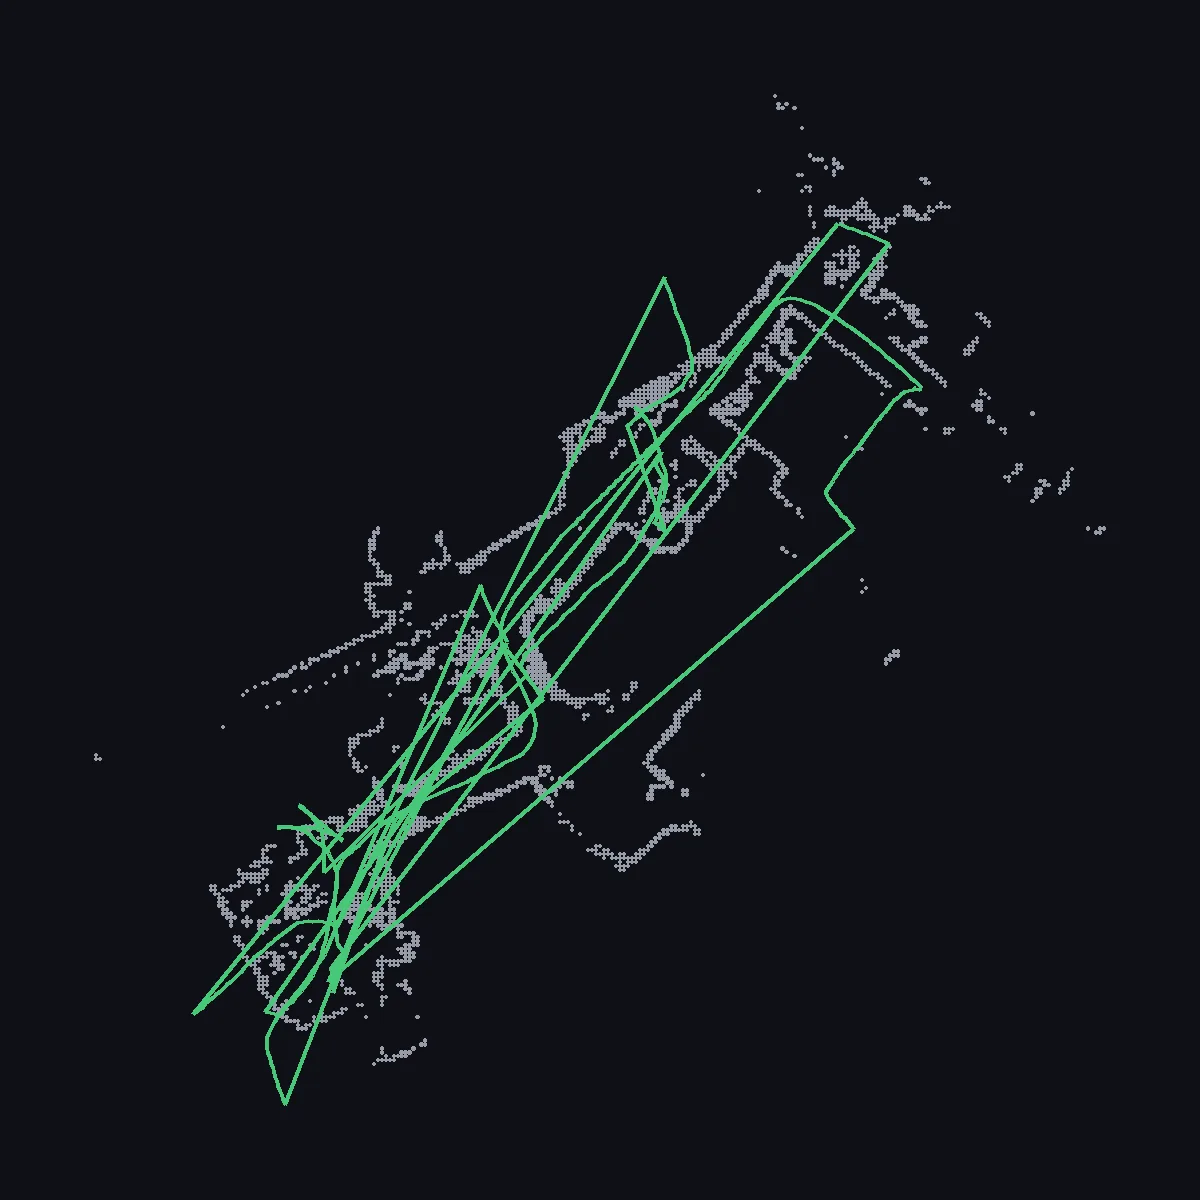
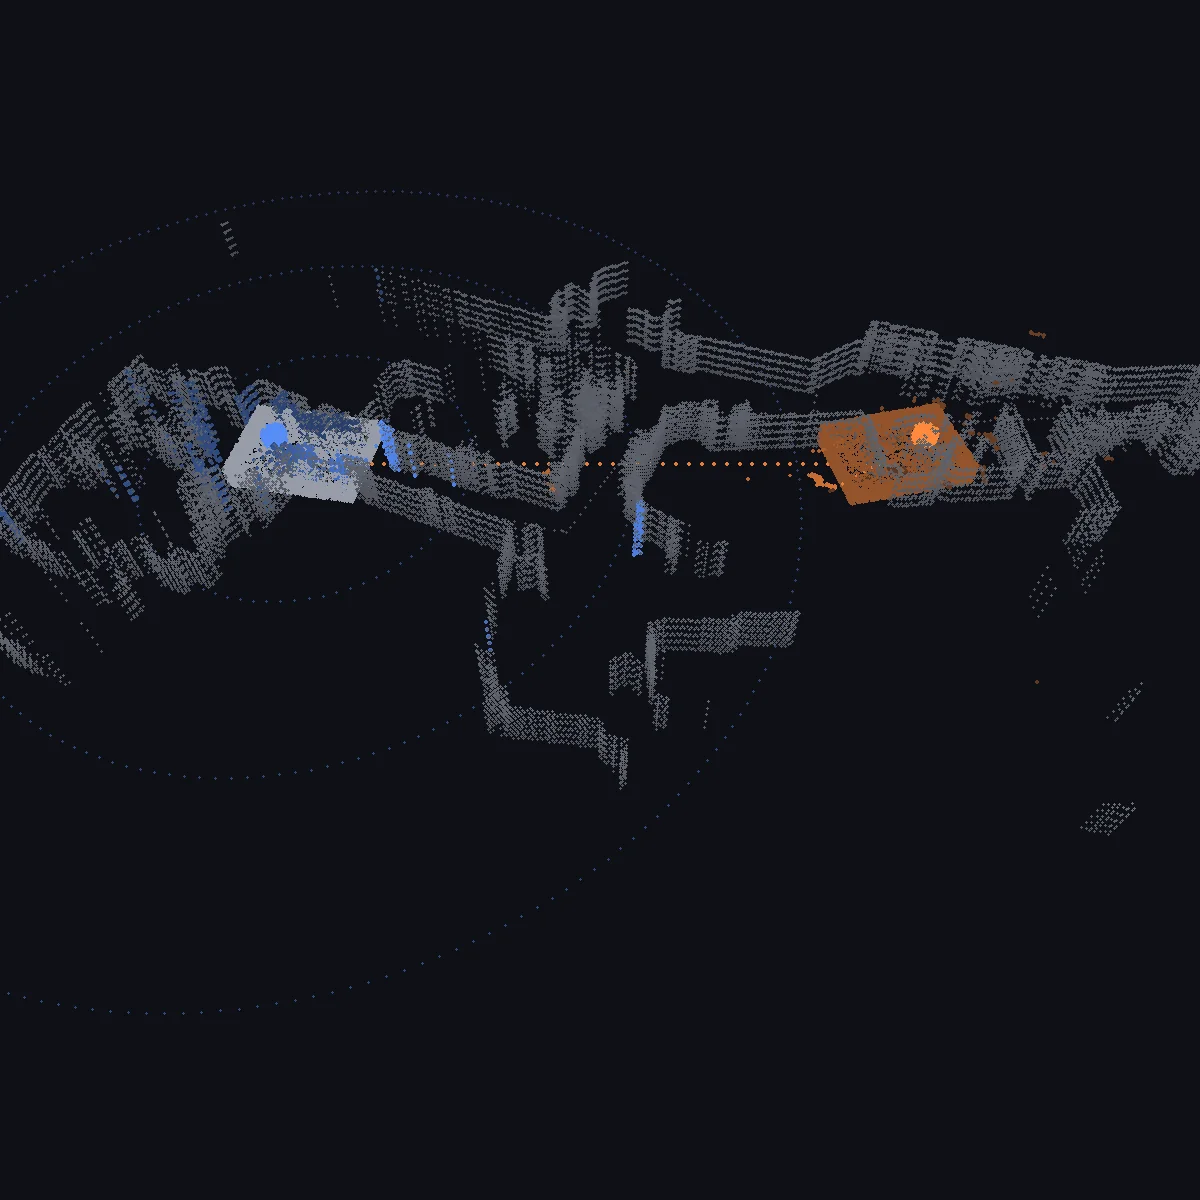
Decipher tile and robot-log card: AMR and its ghost on the real Stata map, simulated lidar, loop

diff --git a/scripts/make-stata-plate.py b/scripts/make-stata-plate.py
@@ -1,54 +1,284 @@
 #!/usr/bin/env python3
-"""Square card thumbnail for the ROS 2 triage project, drawn from the data
-kept as generator input, not shipped: scripts/assets/stata/stata-walls.bin (int8 x, y per point) and
-scripts/assets/stata/stata-replay.json (AMCL poses, int16, same frame). Walls in grey,
-the estimated path in green, nothing else. Host tooling (Pillow), run by hand
-like the resume; the output is committed.
+"""Card plate and loop for the ROS 2 log-triage project (also the hero's Decipher
+tile): a logistics robot in a building, the point of the log tool in one picture.
+Dots in the house look (oblique, grey fading with depth, returns lit in blue, a
+sweeping beam), like scripts/make-roboat-plate.py. Host tooling (numpy, Pillow),
+run by hand; outputs committed.
 
-    python3 scripts/make-stata-plate.py
+REAL: the building map, where the robot really was, and where it said it was.
+  Dataset  MIT Stata Center dataset, a PR2 robot, CC BY 3.0 (Fallon et al.)
+  Run      the demo's results/stata of github.com/thrmnn/ros2-localization-triage:
+           walls.csv (laser endpoints from ground-truth-aligned scans),
+           amcl_poses.csv (the poses AMCL reported), gt_part3_floor2.csv (the
+           dataset's AprilTag ground truth, independent of AMCL).
+  Moment   one AMCL pose inside the lost window (part3_after_floor_change, 88 s,
+           median position error 19.4 m, median reported sigma 0.081 m), the one
+           whose error and reported sigma are closest to those medians; the true
+           pose is the ground-truth row nearest in time (within 0.1 s). The
+           picture shows both: the robot where it was (grey, blue returns) and
+           the robot where it said it was (orange).
+  Asset    scripts/assets/stata/lost-moment.npz: walls in metres, the two poses,
+           the ground-truth path of the lost window. --sample rebuilds it from a
+           clone of the demo repo.
+
+SIMULATED / DRAWN: everything that is the robot and its scan.
+  The robot is a generic low logistics AMR (flat base, flat cargo deck, lidar puck
+  on top) drawn in points at about four times a typical AMR's size so it reads at card size.
+  It is a stand-in for the kind of robot this work serves, not the PR2 that made
+  the recording. The scan is imagined: a 2D lidar on the puck, 0.5 degree steps,
+  18 m range, lit on the real wall points in line of sight of the true pose (the
+  wall points are laser endpoints, 10 cm apart, so no claim is made about what
+  the real scanner returned). The orange returns are that same scan placed at the
+  reported pose: what the robot would believe it sees. Walls are extruded to 2.6 m
+  in dot columns for the oblique view; the real map is 2D.
+
+    python3 scripts/make-stata-plate.py                  # plate and loop from the asset
+    python3 scripts/make-stata-plate.py --view top        # alternative framing, to ~/Perso/site-review/files
+    python3 scripts/make-stata-plate.py --sample <clone>  # rebuild the asset
 """
-import json
-import struct
+import math
+import sys
 from pathlib import Path
 
+import numpy as np
 from PIL import Image, ImageDraw
 
 ROOT = Path(__file__).parent.parent
-WALLS = ROOT / "scripts" / "assets" / "stata" / "stata-walls.bin"
-REPLAY = ROOT / "scripts" / "assets" / "stata" / "stata-replay.json"
-OUT = ROOT / "public" / "projects" / "ros2-localization-triage" / "stata-plate.webp"
+ASSET = ROOT / "scripts/assets/stata/lost-moment.npz"
+OUT = ROOT / "public/projects/ros2-localization-triage"
+ALT_OUT = Path.home() / "Perso/site-review/files"
 
 S = 1200
-PAD = 0.08
-BG = (14, 16, 22)
-WALL = (150, 156, 168)
-TRAIL = (70, 200, 120)
+BG = np.array((14, 16, 22), float)
+GREY = np.array((120, 124, 134), float)
+LIGHT = np.array((150, 156, 168), float)
+ACCENT = np.array((86, 140, 246), float)
+ORANGE = np.array((255, 138, 61), float)
 
-raw = WALLS.read_bytes()
-walls = [struct.unpack_from("bbBB", raw, i * 4)[:2] for i in range(len(raw) // 4)]
-poses = json.loads(REPLAY.read_text())["poses"]
-trail = [(p[1] / 32767, p[2] / 32767) for p in poses]
-wx = [x / 127 for x, _ in walls]
-wy = [y / 127 for _, y in walls]
-
-xs = wx + [x for x, _ in trail]
-ys = wy + [y for _, y in trail]
-x0, x1, y0, y1 = min(xs), max(xs), min(ys), max(ys)
-span = max(x1 - x0, y1 - y0)
-scale = S * (1 - 2 * PAD) / span
-cx, cy = (x0 + x1) / 2, (y0 + y1) / 2
+WALL_H = 2.0
+COL_STEP = 0.4
+LIDAR_Z = 0.55
+MAX_RANGE = 18.0
+AZ_STEP = 0.5
+ROBOT_K = 4.2
 
 
-def to_px(x, y):
-    return (S / 2 + (x - cx) * scale, S / 2 - (y - cy) * scale)
+def sample(clone):
+    res = Path(clone) / "results/stata"
+    walls = np.loadtxt(res / "walls.csv", delimiter=",", skiprows=1)
+    amcl = np.loadtxt(res / "amcl_poses.csv", delimiter=",", skiprows=1)
+    gt = np.loadtxt(res / "gt_part3_floor2.csv", delimiter=",")
+    t0 = amcl[0, 0]
+    t = (amcl[:, 0] - t0) / 1e6
+    lo, hi = float(gt[0, 0] - t0) / 1e6, float(gt[-1, 0] - t0) / 1e6
+    gi = np.abs(gt[:, 0][None, :] - amcl[:, 0][:, None]).argmin(1)
+    ok = (np.abs(gt[gi, 0] - amcl[:, 0]) < 1e5) & (t >= 302.0) & (t <= hi)
+    err = np.hypot(*(gt[gi, 1:3] - amcl[:, 1:3]).T)
+    med_err, med_sig = np.median(err[ok]), np.median(amcl[ok, 4])
+    cost = np.abs(err - med_err) / med_err + np.abs(amcl[:, 4] - med_sig) / med_sig
+    cost[~ok] = 1e9
+    i = int(cost.argmin())
+    print(f"replay t={t[i]:.1f} s, error {err[i]:.1f} m (median {med_err:.1f}), sigma {amcl[i, 4]:.3f} m (median {med_sig:.3f})")
+    np.savez_compressed(
+        ASSET,
+        walls=np.round(walls * 100).astype(np.int16),
+        true_pose=gt[gi[i], 1:4],
+        amcl_pose=amcl[i, 1:4],
+        path=np.round(gt[::10, 1:3] * 100).astype(np.int16),
+        meta=np.array([t[i], err[i], amcl[i, 4]]),
+    )
+    print(ASSET.stat().st_size, "B")
 
 
-im = Image.new("RGB", (S, S), BG)
-d = ImageDraw.Draw(im)
-for x, y in zip(wx, wy):
-    px, py = to_px(x, y)
-    d.ellipse([px - 1.6, py - 1.6, px + 1.6, py + 1.6], fill=WALL)
-d.line([to_px(x, y) for x, y in trail], fill=TRAIL, width=4, joint="curve")
-OUT.parent.mkdir(parents=True, exist_ok=True)
-im.save(OUT, "WEBP", quality=82, method=6)
-print(f"wrote {OUT} ({OUT.stat().st_size} B, {len(walls)} wall points, {len(trail)} poses)")
+def load():
+    d = np.load(ASSET)
+    return d["walls"].astype(float) / 100, d["true_pose"], d["amcl_pose"], d["path"].astype(float) / 100
+
+
+def cast(walls, pose):
+    """Wall points in line of sight of a 2D lidar at pose: indices, sensor-frame angle (deg), range."""
+    d = walls - pose[:2]
+    r = np.hypot(d[:, 0], d[:, 1])
+    a = (np.degrees(np.arctan2(d[:, 1], d[:, 0])) - math.degrees(pose[2])) % 360
+    nb = int(round(360 / AZ_STEP))
+    b = (a / AZ_STEP).astype(int) % nb
+    near = np.full(nb, np.inf)
+    ok = (r > 0.6) & (r < MAX_RANGE)
+    np.minimum.at(near, b[ok], r[ok])
+    m = np.min([np.roll(near, k) for k in range(-2, 3)], axis=0)
+    vis = ok & (r <= m[b] + 0.25)
+    return np.nonzero(vis)[0], a[vis], r[vis], near
+
+
+def amr(pose, k=ROBOT_K):
+    """Generic low AMR in points: base, cargo deck, lidar puck. Returns (body, puck) in world metres."""
+    rng = np.random.default_rng(3)
+    L, W, Hb = 0.55 * k, 0.38 * k, 0.27 * k
+    pts = []
+    n = 1500
+    x, y = rng.uniform(-L, L, n), rng.uniform(-W, W, n)
+    pts.append(np.c_[x, y, np.full(n, Hb)])
+    n = 1800
+    x, y = rng.uniform(-L, L, n), rng.uniform(-W, W, n)
+    pts.append(np.c_[x, y, np.full(n, 0.2 * Hb)])
+    for sx in (-L, L):
+        n = 1000
+        pts.append(np.c_[np.full(n, sx), rng.uniform(-W, W, n), rng.uniform(0.2 * Hb, Hb, n)])
+    for sy in (-W, W):
+        n = 1600
+        pts.append(np.c_[rng.uniform(-L, L, n), np.full(n, sy), rng.uniform(0.2 * Hb, Hb, n)])
+    n = 300
+    pts.append(np.c_[np.full(n, L * 1.0), rng.uniform(-W, W, n), np.full(n, Hb * 0.55)])
+    body = np.vstack(pts)
+    th = rng.uniform(0, 2 * np.pi, 600)
+    rr = 0.1 * k * np.sqrt(rng.uniform(0, 1, 600))
+    zz = rng.uniform(Hb, Hb + 0.12 * k, 600)
+    puck = np.c_[0.42 * L + rr * np.cos(th), rr * np.sin(th), zz]
+    c, s = math.cos(pose[2]), math.sin(pose[2])
+    rot = lambda p: np.c_[p[:, 0] * c - p[:, 1] * s + pose[0], p[:, 0] * s + p[:, 1] * c + pose[1], p[:, 2]]
+    return rot(body), rot(puck)
+
+
+def cam_persp(cam_pos, look, f, oy=0.4):
+    cam_pos, look = np.array(cam_pos, float), np.array(look, float)
+    fwd = look - cam_pos
+    fwd /= np.linalg.norm(fwd)
+    right = np.cross(fwd, [0, 0, 1.0])
+    right /= np.linalg.norm(right)
+    up = np.cross(right, fwd)
+
+    def cam(p):
+        d = p - cam_pos
+        zc = np.maximum(d @ fwd, 0.3)
+        return S / 2 + f * (d @ right) / zc, S * oy - f * (d @ up) / zc, zc, f / zc / 120
+
+    return cam
+
+
+def render(cam, groups, size=S):
+    X, Y, D, R, C = [], [], [], [], []
+    for pts, col, rad, w, rmin in groups:
+        if not len(pts):
+            continue
+        x, y, d, sc = cam(pts)
+        col = np.broadcast_to(col, (len(pts), 3))
+        X.append(x); Y.append(y); D.append(d); R.append(np.clip(rad * sc, rmin, 7))
+        C.append(BG + (col - BG) * w[:, None])
+    X, Y, D, R, C = (np.concatenate(v) for v in (X, Y, D, R, C))
+    ok = (X > -5) & (X < S + 5) & (Y > -5) & (Y < S + 5)
+    o = np.argsort(-D[ok])
+    k = size / S
+    im = Image.new("RGB", (size, size), tuple(int(v) for v in BG))
+    dr = ImageDraw.Draw(im)
+    for x, y, r, c in zip(X[ok][o] * k, Y[ok][o] * k, R[ok][o] * k, C[ok][o].astype(np.uint8)):
+        dr.ellipse([x - r, y - r, x + r, y + r], fill=tuple(int(v) for v in c))
+    return im
+
+
+def fade(cam, pts, near, far, gamma):
+    return np.clip(1 - (cam(pts)[2] - near) / (far - near), 0, 1) ** gamma
+
+
+def scene():
+    walls, tp, ap, path = load()
+    n = len(walls)
+    zs = np.arange(0.12, WALL_H, COL_STEP)
+    cols = np.c_[np.repeat(walls, len(zs), 0), np.tile(zs, n)]
+    base = np.repeat(np.arange(n), len(zs))
+    idx, ang, rng_, near = cast(walls, tp)
+    lit_mask = np.isin(base, idx)
+    ang_of = np.full(n, np.nan)
+    ang_of[idx] = ang
+    dyaw = ap[2] - tp[2]
+    c, s = math.cos(dyaw), math.sin(dyaw)
+    rel = walls[idx] - tp[:2]
+    mis = np.c_[rel[:, 0] * c - rel[:, 1] * s + ap[0], rel[:, 0] * s + rel[:, 1] * c + ap[1], np.full(len(idx), LIDAR_Z)]
+    body_t, puck_t = amr(tp)
+    body_a, puck_a = amr(ap)
+    gap = np.linspace(0, 1, int(np.hypot(*(ap[:2] - tp[:2])) / 0.45))[:, None]
+    gapline = np.c_[tp[:2] + gap * (ap[:2] - tp[:2]), np.full(len(gap), 0.05)]
+    rings = []
+    for r in (6.0, 12.0, 18.0):
+        th = np.linspace(0, 2 * np.pi, int(2 * np.pi * r / 0.45), endpoint=False)
+        rings.append(np.c_[tp[0] + r * np.cos(th), tp[1] + r * np.sin(th), np.zeros(len(th))])
+    trail = np.c_[path, np.zeros(len(path))]
+    return dict(
+        cols=cols, lit=lit_mask, col_ang=ang_of[base], mis=mis, mis_ang=ang, tp=tp, ap=ap,
+        body_t=body_t, puck_t=puck_t, body_a=body_a, puck_a=puck_a, gap=gapline, trail=trail, rings=np.vstack(rings),
+        near=near,
+    )
+
+
+def beam(sc, head):
+    """Dots along the ray at sensor angle head, true pose and the same ray at the reported pose."""
+    b = int(round(head / AZ_STEP)) % len(sc["near"])
+    r = sc["near"][b] if np.isfinite(sc["near"][b]) else MAX_RANGE
+    t = np.arange(0.8, r, 0.35)
+    out = []
+    for p in (sc["tp"], sc["ap"]):
+        a = p[2] + math.radians(head)
+        out.append(np.c_[p[0] + t * math.cos(a), p[1] + t * math.sin(a), np.full(len(t), LIDAR_Z)])
+    return out
+
+
+def groups(sc, cam, head=None, tau=110.0, floor=0.0):
+    zt = np.clip(sc["cols"][:, 2] / WALL_H, 0, 1)
+    grey = GREY + (LIGHT - GREY) * zt[:, None]
+    wf = fade(cam, sc["cols"], 8, 90, 0.7)
+    lit = sc["lit"]
+    if head is None:
+        wi, mi = np.ones(lit.sum()), np.ones(len(sc["mis"]))
+    else:
+        f = lambda a: floor + (1 - floor) * np.exp(-((head - a) % 360) / tau)
+        wi, mi = f(sc["col_ang"][lit]), f(sc["mis_ang"])
+    lc = sc["cols"][lit]
+    lit_w = fade(cam, lc, 8, 90, 0.5) * wi
+    g = [
+        (sc["cols"], grey, 2.5, wf * 0.8, 1.0),
+        (sc["rings"], ACCENT, 1.8, fade(cam, sc["rings"], 10, 80, 0.7) * 0.55, 1.0),
+        (sc["trail"], LIGHT, 1.3, np.full(len(sc["trail"]), 0.45), 1.0),
+        (sc["gap"], ORANGE, 2.6, np.full(len(sc["gap"]), 0.9), 1.5),
+        (lc, ACCENT, 3.0, np.clip(lit_w * 1.25, 0, 1), 1.6),
+        (sc["mis"], ORANGE, 2.6, fade(cam, sc["mis"], 8, 90, 0.5) * mi, 1.4),
+        (sc["body_a"], ORANGE, 1.1, np.full(len(sc["body_a"]), 0.55), 0.9),
+        (sc["puck_a"], ORANGE, 1.4, np.ones(len(sc["puck_a"])), 1.1),
+        (sc["body_t"], LIGHT, 1.1, np.ones(len(sc["body_t"])), 0.9),
+        (sc["puck_t"], ACCENT, 1.5, np.ones(len(sc["puck_t"])), 1.2),
+    ]
+    if head is not None:
+        bt, ba = beam(sc, head)
+        g += [(bt, ACCENT, 2.0, np.full(len(bt), 0.9), 1.2), (ba, ORANGE, 2.0, np.full(len(ba), 0.9), 1.2)]
+    return g
+
+
+def main():
+    top = "--view" in sys.argv and sys.argv[sys.argv.index("--view") + 1] == "top"
+    sc = scene()
+    mid = (sc["tp"][:2] + sc["ap"][:2]) / 2
+    v = sc["ap"][:2] - sc["tp"][:2]
+    v /= np.linalg.norm(v)
+    perp = np.array([v[1], -v[0]])
+    if top:
+        cp = mid + perp * 9
+        cam = cam_persp((cp[0], cp[1], 58), (mid[0], mid[1], 0.8), 980, oy=0.38)
+    else:
+        cp = mid + perp * 24
+        cam = cam_persp((cp[0], cp[1], 27), (mid[0], mid[1], 0.5), 980, oy=0.38)
+    still = ALT_OUT / "decipher-alt.webp" if top else OUT / "stata-plate.webp"
+    anim = ALT_OUT / "decipher-alt-anim.webp" if top else OUT / "stata-anim.webp"
+    still.parent.mkdir(parents=True, exist_ok=True)
+    print(len(sc["cols"]), "wall dots,", sc["lit"].sum(), "lit")
+    render(cam, groups(sc, cam, head=200.0, floor=0.35)).save(still, "WEBP", quality=84, method=6)
+    n, frames = 36, []
+    for i in range(n):
+        frames.append(render(cam, groups(sc, cam, head=i * 360 / n, floor=0.0), 600))
+    frames[0].save(anim, "WEBP", save_all=True, append_images=frames[1:], duration=80, loop=0, quality=30, method=6)
+    for f in (still, anim):
+        print(f, f.stat().st_size, "B")
+
+
+if __name__ == "__main__":
+    if "--sample" in sys.argv:
+        sample(sys.argv[sys.argv.index("--sample") + 1])
+    else:
+        main()

diff --git a/src/content/projects/ros2-localization-triage.md b/src/content/projects/ros2-localization-triage.md
@@ -15,6 +15,7 @@ externalLink: 'https://github.com/thrmnn/ros2-localization-triage'
 featuredOrder: 3
 image: '/projects/ros2-localization-triage/threshold-transfer.webp'
 cardImage: '/projects/ros2-localization-triage/stata-plate.webp'
+cardAnim: '/projects/ros2-localization-triage/stata-anim.webp'
 imageAlt: 'The same yaw-uncertainty threshold on two robots: set on a simulated TurtleBot3 where injected faults cross it, then applied to a real Tiago with no faults, where the signal rides the line for much of the recording.'
 imageWidth: 1489
 imageHeight: 1025
@@ -41,3 +42,7 @@ The same frozen thresholds did not transfer. The covariance threshold, set on a 
 - Three predictions were committed before the ERL benchmark run. Two held, including that the laser-gap detector would show no elevation on the engineered failure runs: it fired zero times over 1,013 seconds. The prediction that the transform detector would not rise did not hold.
 - Two case-log rows are graded “wrong” and published as such.
 - One candidate dataset was rejected over its licence, not for a technical reason.
+
+## Picture credit
+
+The card picture draws the map and the two positions from a real recording: a PR2 robot in the MIT Stata Center, public dataset, CC BY 3.0. The grey walls are the recording's laser map; the two robots are where the dataset's AprilTag ground truth put it and where AMCL said it was, at one moment inside the lost window. The robot itself is a generic logistics robot drawn in dots, not the PR2, and the scan is simulated on the real walls: an imagined 2D lidar lights the wall points in line of sight of the true position, and the orange points are the same scan placed at the reported position.
